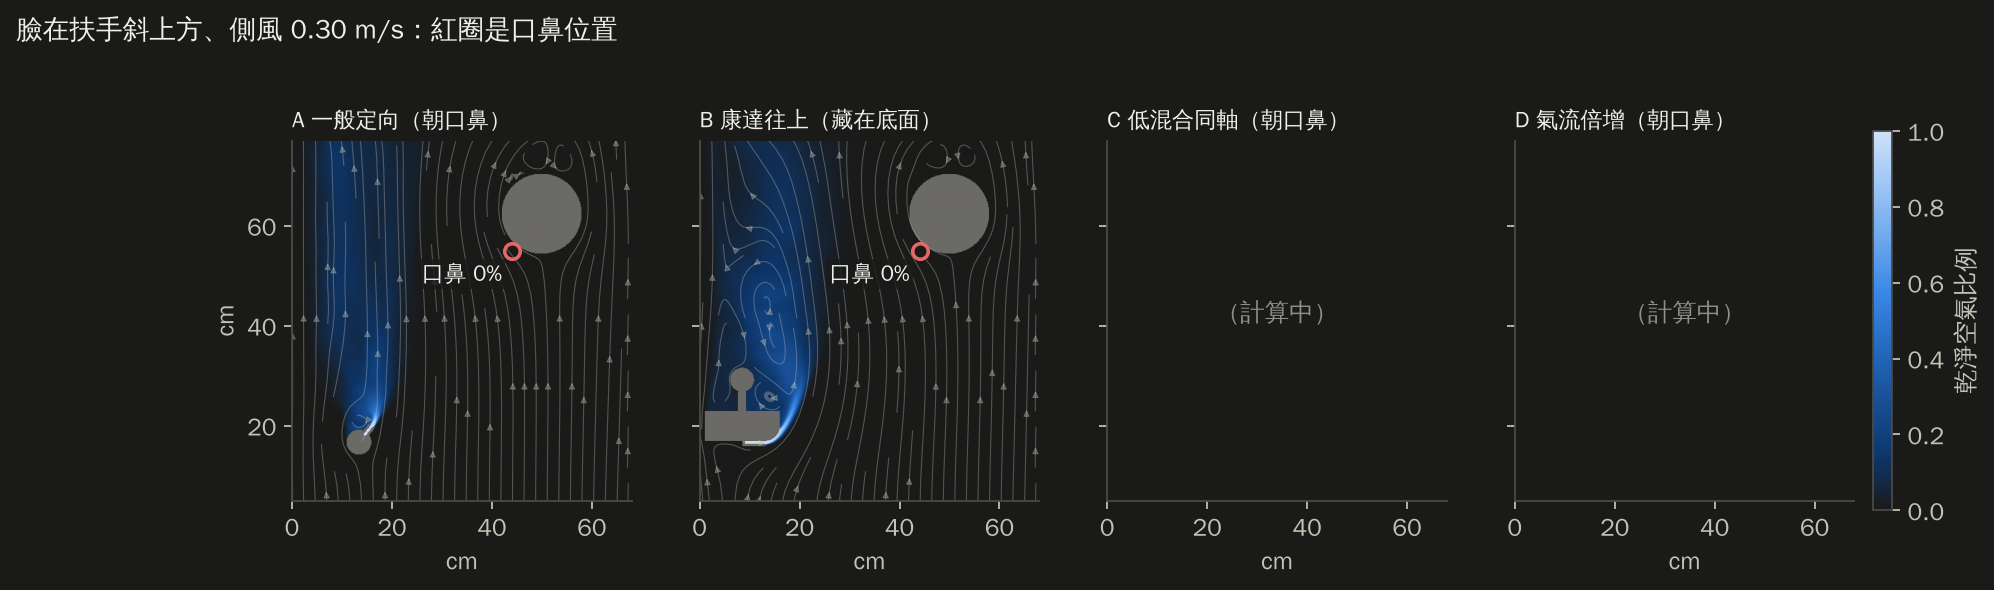
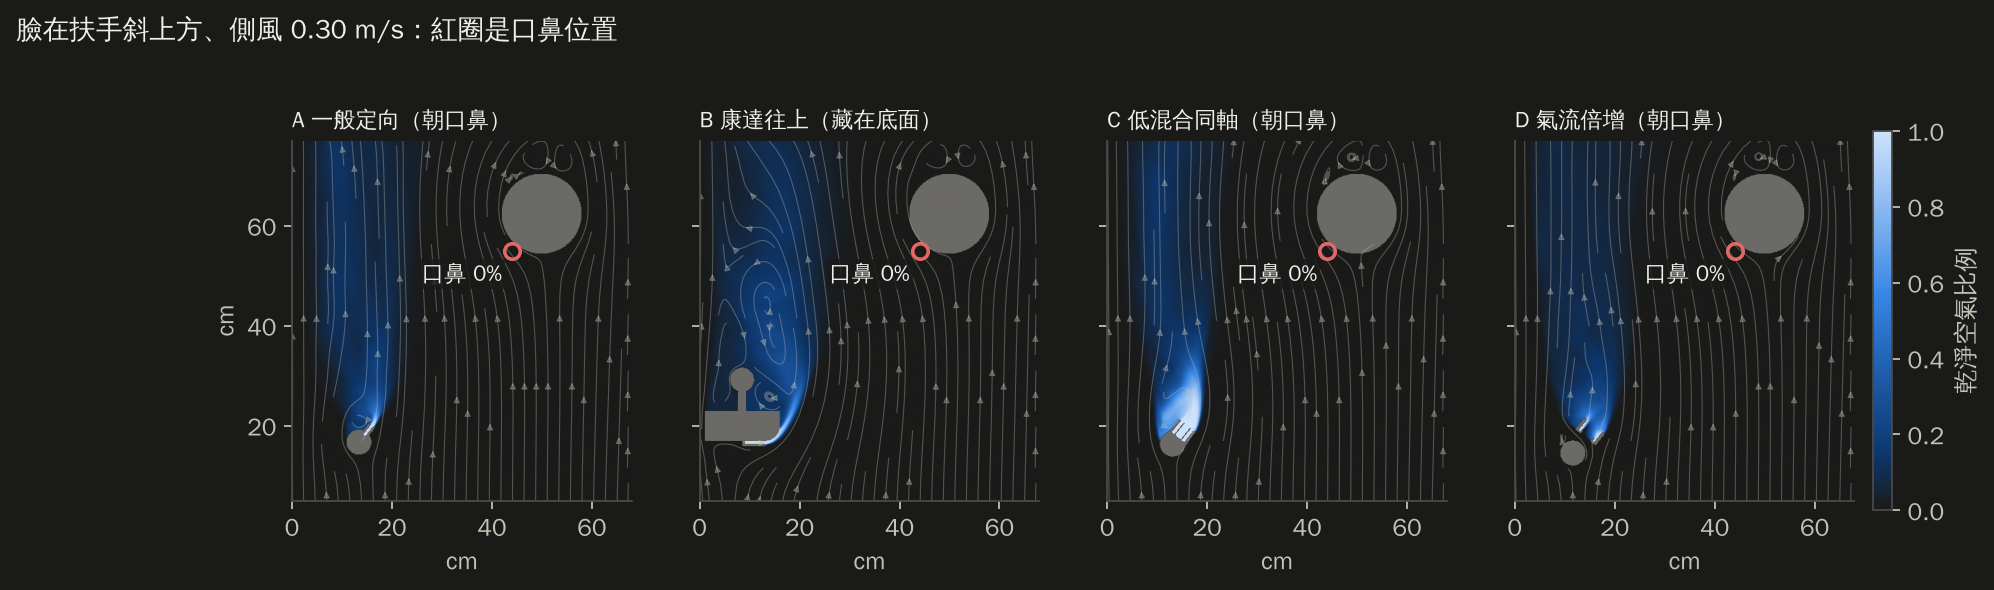
Face-above: 8/18 results (crossflow 0.30 row complete)
Claude-Session: https://claude.ai/code/session_01CLMVR9XzZXdsSKCMSLUbBG

Changed region(s): [[0.7462, 0.2136, 0.9328, 0.8237], [0.5597, 0.2136, 0.7151, 0.8542], [0.9017, 0.4576, 0.9328, 0.4881]]

diff --git a/stairwell-airflow-sim/report/index.html b/stairwell-airflow-sim/report/index.html
@@ -173,7 +173,7 @@ footer { margin-top: 48px; padding-top: 20px; border-top: 1px solid var(--line);
   <h1>扶手送風模擬報告</h1>
   <p class="question">一根貫穿整棟樓的扶手，平時能不能流通、淨化空氣？火災時能幫逃生者做到什麼？用電腦模擬一項一項檢查。</p>
   <div class="meta"><span>日期 <b>2026-10-19</b></span><span>專案 <b>長庚大學工業設計學系 林煜宸</b></span><span>模擬與撰寫 <b>Claude（AI）</b></span></div>
-  <div class="progress" role="status"><p>臉在斜上方的出風口重算：已完成 6/18 組，整體約 57%，預計台灣時間 <b>23:16</b> 前後完成</p><div class="bar" aria-hidden="true"><span style="width:56.8%"></span></div><div class="chips"><span class="chip chip-done"><b>B 康達往上</b>・無側風　完成</span><span class="chip chip-done"><b>B 康達往上</b>・側風 0.15　完成</span><span class="chip chip-done"><b>B 康達往上</b>・側風 0.30　完成</span><span class="chip chip-done"><b>A 一般</b>・側風 0.30　完成</span><span class="chip chip-run"><b>C 低混合</b>・側風 0.30　92%</span><span class="chip chip-run"><b>D 倍增</b>・側風 0.30　92%</span><span class="chip chip-done"><b>A 一般</b>・無側風　完成</span><span class="chip chip-done"><b>A 一般</b>・側風 0.15　完成</span><span class="chip chip-run"><b>D 倍增</b>・無側風　21%</span><span class="chip chip-run"><b>D 倍增</b>・側風 0.15　0%</span><span class="chip chip-wait"><b>C 低混合</b>・側風 0.15　排隊中</span><span class="chip chip-wait"><b>C 低混合</b>・無側風　排隊中</span><span class="chip chip-wait"><b>W 空氣牆 40</b>・側風 0.15　排隊中</span><span class="chip chip-wait"><b>W 空氣牆 20</b>・側風 0.15　排隊中</span><span class="chip chip-wait"><b>W 空氣牆 40</b>・側風 0.30　排隊中</span><span class="chip chip-wait"><b>W 空氣牆 20</b>・側風 0.30　排隊中</span><span class="chip chip-wait"><b>W 空氣牆 40</b>・無側風　排隊中</span><span class="chip chip-wait"><b>W 空氣牆 20</b>・無側風　排隊中</span></div><p class="muted small">進度在每次更新報告時重新計算（最後更新：台灣時間 10/19 22:38）。</p></div>
+  <div class="progress" role="status"><p>臉在斜上方的出風口重算：已完成 8/18 組，整體約 59%，預計台灣時間 <b>23:17</b> 前後完成</p><div class="bar" aria-hidden="true"><span style="width:58.8%"></span></div><div class="chips"><span class="chip chip-done"><b>B 康達往上</b>・無側風　完成</span><span class="chip chip-done"><b>B 康達往上</b>・側風 0.15　完成</span><span class="chip chip-done"><b>B 康達往上</b>・側風 0.30　完成</span><span class="chip chip-done"><b>A 一般</b>・側風 0.30　完成</span><span class="chip chip-done"><b>C 低混合</b>・側風 0.30　完成</span><span class="chip chip-done"><b>D 倍增</b>・側風 0.30　完成</span><span class="chip chip-done"><b>A 一般</b>・無側風　完成</span><span class="chip chip-done"><b>A 一般</b>・側風 0.15　完成</span><span class="chip chip-run"><b>D 倍增</b>・無側風　35%</span><span class="chip chip-run"><b>D 倍增</b>・側風 0.15　7%</span><span class="chip chip-run"><b>C 低混合</b>・側風 0.15　0%</span><span class="chip chip-run"><b>C 低混合</b>・無側風　0%</span><span class="chip chip-wait"><b>W 空氣牆 40</b>・側風 0.15　排隊中</span><span class="chip chip-wait"><b>W 空氣牆 20</b>・側風 0.15　排隊中</span><span class="chip chip-wait"><b>W 空氣牆 40</b>・側風 0.30　排隊中</span><span class="chip chip-wait"><b>W 空氣牆 20</b>・側風 0.30　排隊中</span><span class="chip chip-wait"><b>W 空氣牆 40</b>・無側風　排隊中</span><span class="chip chip-wait"><b>W 空氣牆 20</b>・無側風　排隊中</span></div><p class="muted small">進度在每次更新報告時重新計算（最後更新：台灣時間 10/19 22:39）。</p></div>
 </header>
 <nav class="toc" aria-label="章節">
   <a href="#summary">一頁看懂</a><a href="#method">怎麼測的</a><a href="#daily">平時：新風帶</a><a href="#fire">火災：守護路線</a>
@@ -445,15 +445,15 @@ footer { margin-top: 48px; padding-top: 20px; border-top: 1px solid var(--line);
 
 <section id="nozzle">
   <h2><span class="no">04</span>四種出風口比一比（臉在扶手斜上方）</h2>
-  <p class="oneliner">臉在扶手斜上方時（已完成 6/18 組），目前口鼻乾淨空氣最高的是 A 一般定向（無側風）：18%。</p>
+  <p class="oneliner">臉在扶手斜上方時（已完成 8/18 組），目前口鼻乾淨空氣最高的是 A 一般定向（無側風）：18%。</p>
   <figure class="fig render"><img class="img-any" src="assets/render_nozzles.webp" alt="四種扶手側面出風口形式比較" loading="lazy"><figcaption>四種出風口的造型構想（設計渲染圖）。圖中文字是設計構想，實際結果以下方模擬為準。</figcaption></figure>
   <figure class="fig"><img class="img-light" src="assets/s2f_saf_bars.png" alt="臉在斜上方時四種出風口的乾淨空氣比例" loading="lazy"><img class="img-dark" src="assets/s2f_saf_bars_dark.png" alt="臉在斜上方時四種出風口的乾淨空氣比例" loading="lazy"><figcaption>每條橫條代表 100% 的吸入空氣，彩色部分是來自出風口的乾淨空氣。黑色短線是最差 10% 的時刻。</figcaption></figure>
   <div class="points prose">
 <p><b>為什麼重算：</b>人扶著內側扶手下樓時，臉在扶手的<b>斜上方</b>，不是正前方。這組把口鼻放在出風口往樓梯側 28 cm、往上 35 cm（距離約 45 cm、仰角約 51°）；A、C、D 出風口改成朝向口鼻，B 改用藏在底面、往上轉的康達出風口。每公尺送風量都是 5 L/s，網格 1.5 mm。<span class="tag tag-sim">模擬結果</span></p>
-<div class="table-wrap"><table><thead><tr><th scope="col">出風口</th><th scope="col">無側風</th><th scope="col">側風 0.15</th><th scope="col">側風 0.30</th></tr></thead><tbody><tr><th scope="row">A 一般定向</th><td class="num">18%</td><td class="num">0%</td><td class="num">0%</td></tr><tr><th scope="row">B 康達往上</th><td class="num">5%</td><td class="num">0%</td><td class="num">0%</td></tr><tr><th scope="row">C 低混合同軸</th><td class="num">計算中</td><td class="num">計算中</td><td class="num">計算中</td></tr><tr><th scope="row">D 氣流倍增</th><td class="num">計算中</td><td class="num">計算中</td><td class="num">計算中</td></tr><tr><th scope="row">W 空氣牆 20 L/s/m</th><td class="num">計算中</td><td class="num">計算中</td><td class="num">計算中</td></tr><tr><th scope="row">W 空氣牆 40 L/s/m</th><td class="num">計算中</td><td class="num">計算中</td><td class="num">計算中</td></tr></tbody></table></div>
-<p><b>目前看到的現象（4 組有側風的結果）：</b>有側風時，出風口吹出的乾淨空氣一離開扶手，就被由下往上的氣流帶著<b>貼著扶手正上方往上走</b>，到不了往樓梯側 28 cm 外的臉，口鼻都是 0%。B 康達往上確實有沿圓角轉向上（下面的圖看得到深藍色貼著導風腔轉彎），但轉上去之後一樣直直往上，沒有往臉的方向偏。<span class="tag tag-sim">模擬結果</span></p>
+<div class="table-wrap"><table><thead><tr><th scope="col">出風口</th><th scope="col">無側風</th><th scope="col">側風 0.15</th><th scope="col">側風 0.30</th></tr></thead><tbody><tr><th scope="row">A 一般定向</th><td class="num">18%</td><td class="num">0%</td><td class="num">0%</td></tr><tr><th scope="row">B 康達往上</th><td class="num">5%</td><td class="num">0%</td><td class="num">0%</td></tr><tr><th scope="row">C 低混合同軸</th><td class="num">計算中</td><td class="num">計算中</td><td class="num">0%</td></tr><tr><th scope="row">D 氣流倍增</th><td class="num">計算中</td><td class="num">計算中</td><td class="num">0%</td></tr><tr><th scope="row">W 空氣牆 20 L/s/m</th><td class="num">計算中</td><td class="num">計算中</td><td class="num">計算中</td></tr><tr><th scope="row">W 空氣牆 40 L/s/m</th><td class="num">計算中</td><td class="num">計算中</td><td class="num">計算中</td></tr></tbody></table></div>
+<p><b>目前看到的現象（6 組有側風的結果）：</b>有側風時，出風口吹出的乾淨空氣一離開扶手，就被由下往上的氣流帶著<b>貼著扶手正上方往上走</b>，到不了往樓梯側 28 cm 外的臉，口鼻都是 0%。B 康達往上確實有沿圓角轉向上（下面的圖看得到深藍色貼著導風腔轉彎），但轉上去之後一樣直直往上，沒有往臉的方向偏。<span class="tag tag-sim">模擬結果</span></p>
 <p><b>加算空氣牆：</b>先算完的幾組顯示，每公尺 5 L/s 的出風口在有側風時送不到斜上方的臉。所以把第 05 章表現最好的空氣牆（寬 80 mm、每公尺 20 或 40 L/s、水平往樓梯側吹）也放進同一個「臉在斜上方＋有頭」的測試，共 6 組，表格最後兩列。<span class="tag tag-sim">模擬結果</span></p>
-<p class="muted">已完成 6/18 組，其餘計算中；每完成一批就會更新。</p></div>
+<p class="muted">已完成 8/18 組，其餘計算中；每完成一批就會更新。</p></div>
   <figure class="fig"><img class="img-light" src="assets/s2f_vc00_fields.png" alt="臉在斜上方、無側風" loading="lazy"><img class="img-dark" src="assets/s2f_vc00_fields_dark.png" alt="臉在斜上方、無側風" loading="lazy"><figcaption>無側風：紅圈是口鼻位置，顏色越深代表出風口的空氣越多。</figcaption></figure>
   <figure class="fig"><img class="img-light" src="assets/s2f_vc15_fields.png" alt="臉在斜上方、側風 0.15 m/s" loading="lazy"><img class="img-dark" src="assets/s2f_vc15_fields_dark.png" alt="臉在斜上方、側風 0.15 m/s" loading="lazy"><figcaption>側風 0.15 m/s（由下往上）。</figcaption></figure>
   <figure class="fig"><div class="pending-box">動畫計算中</div><figcaption>動畫（臉在斜上方、側風 0.15 m/s）。每格 0.08 秒。</figcaption></figure>
